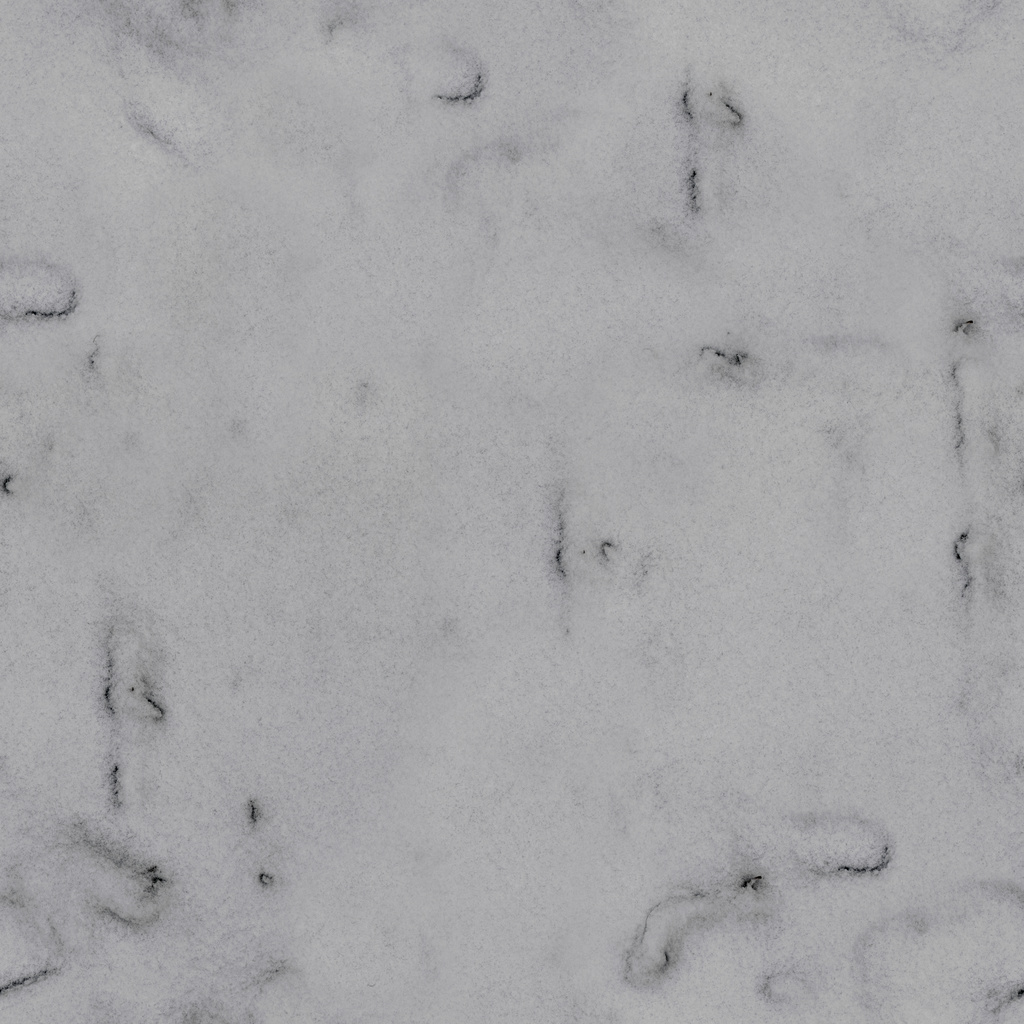
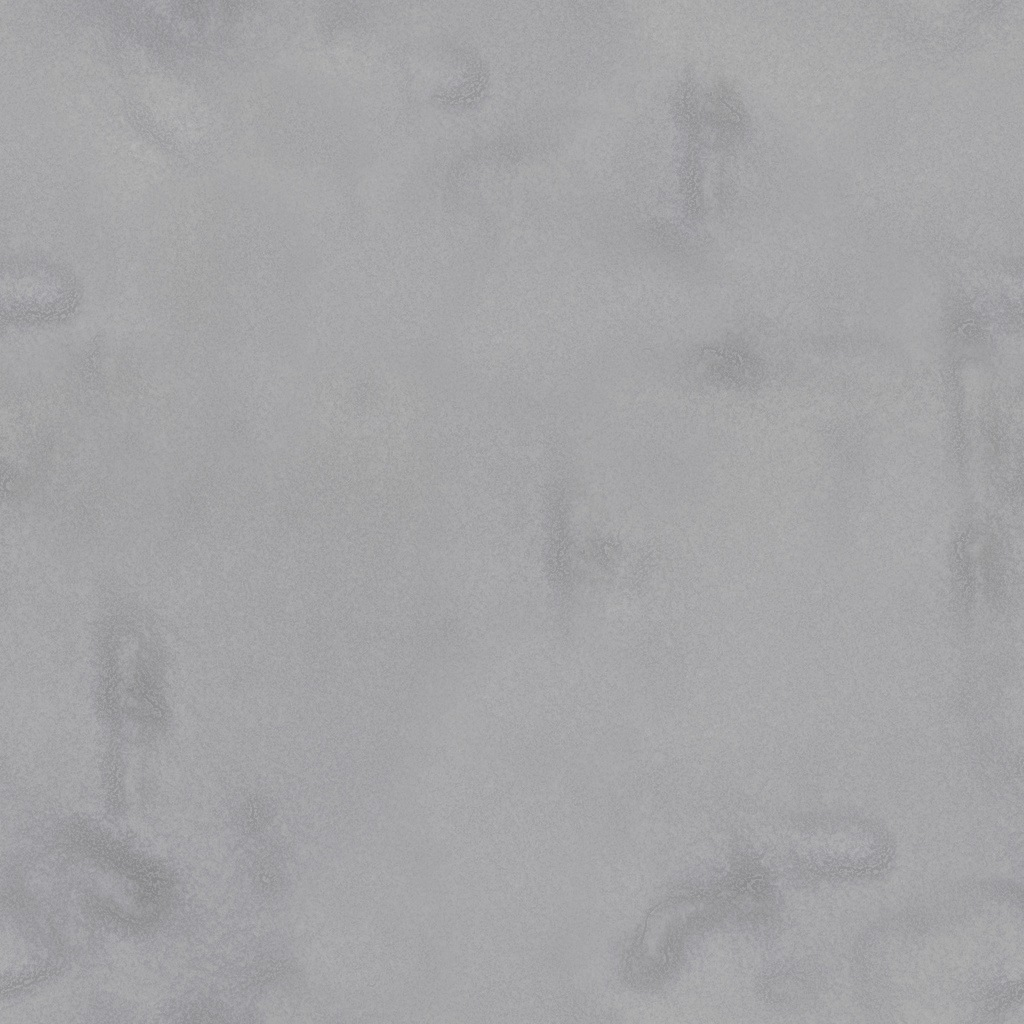
Snow Rush Phase 4 (1): spruce forest, lit alpine mountains, clean snow, real lodges
- Trees: drooping branch whorls with star-shaped rims, snow on their upper sides, dark
  needles beneath, trunk and leader; two kinds, full near the camera (~330 tris) and
  light far away (~80), swapped per chunk by distance; green tinted per tree, snow kept.
- Mountains: three rings of real relief (ridged polar height fields) shaded per pixel:
  rock and strata on cliffs, snow wherever it can hold, wrapped sun, haze with distance.
- Snow texture: the dark crust cracks that read as dirt are gone (frequency split keeps
  the grain and sparkle); the normal map's grooves softened to match.
- Off-piste snow: wind ripples and a touch brighter than the packed run.
- Lodges and cafés along the run use the village's house generator; terraces stay on
  their cut terraces. Village spruces use the new trees.
- Render cost about the same as before (run start 1.12M tris incl. shadows).

Claude-Session: https://claude.ai/code/session_01MeTHNeZ7NE1P16vEWgScPr

diff --git a/snowtrader/js/world.js b/snowtrader/js/world.js
@@ -19,7 +19,7 @@
   ST.LAB={id:'lab',name:'מעבדת בדיקות',en:'TEST LAB',diff:'green',diffName:'בדיקות',blurb:'מדרון רחב וריק לבדיקת הרוכב והפיזיקה.',len:900,vref:11,slope:.2,halfW:32,bend:[10,4],rampStart:170,rampEvery:150,rampH:[.8,1.2],jump:{Hm:3,face:26,b:.1,Tb:6},redRate:0,goals:[1000,3000],par:120,net:false,snowfall:.1,noItems:true,
     sky:{zen:0x2f6fcf,mid:0x86bdf0,hor:0xe3f0fb,sun:0xfff7ea,sunDir:[-.30,.50,-.80],fog:0xc3d9ee,fogNear:90,fogFar:460,snow:0xf4f8ff,hemiS:0x9cc4ff,hemiG:0xcfdcf2,hemiI:1.0,sunI:1.6,exp:.9,stars:0,mount:[0xffffff,0x6f86a8],neon:0}};
 
-  const L=48, U=64, NU=65, NS=49;           // chunk length (m), half width, columns, rows
+  const L=48, U=64, NU=65, NS=49, L_CH=L;    // chunk length (m), half width, columns, rows
   let T=ST.TRACKS[0], cx0=0;
   const S=z=>-z;                              // forward distance from a world z
 
@@ -103,7 +103,10 @@
       varying vec3 vWP; varying float vGroom; uniform float uSparkle; varying float vGlow; uniform float uGlowK;
       float sh1(vec2 p){ return fract(sin(dot(p,vec2(127.1,311.7)))*43758.5453); }`)
       .replace('#include <normal_fragment_maps>',`#include <normal_fragment_maps>
-      { float dd=length(vViewPosition); float fade=vGroom*smoothstep(70.,6.,dd); float st=sin(vWP.x*30.0+sin(vWP.z*.07)*5.0)*.6+sin(vWP.x*61.0+1.3)*.4; normal=normalize(normal+vec3(st*.11*fade,0.,0.)); diffuseColor.rgb*=1.-.045*st*fade; }`)
+      { float dd=length(vViewPosition); float fade=max(vGroom,0.)*smoothstep(70.,6.,dd); float st=sin(vWP.x*30.0+sin(vWP.z*.07)*5.0)*.6+sin(vWP.x*61.0+1.3)*.4; normal=normalize(normal+vec3(st*.11*fade,0.,0.)); diffuseColor.rgb*=1.-.045*st*fade;
+        // deep snow off the run: wind ripples (sastrugi) that wander, and a touch brighter than the packed run
+        float off=1.-abs(vGroom), rf=off*smoothstep(55.,5.,dd); vec2 wd=vec2(.82,.57); float ph=dot(vWP.xz,wd)*4.6+sin(vWP.x*.29+vWP.z*.21)*2.2+sin(vWP.x*1.3-vWP.z*.9)*.6;
+        vec3 tilt=vec3(wd.x,0.,wd.y)*cos(ph)*.16*rf; normal=normalize(normal+(viewMatrix*vec4(tilt,0.)).xyz); diffuseColor.rgb*=1.+.035*off; }`)
       .replace('vec3 outgoingLight =',`{
         vec2 cell=floor(vWP.xz*34.0); float k=sh1(cell);
         vec3 vd=normalize(cameraPosition-vWP);
@@ -129,15 +132,31 @@
   }
   function paint(g,fn){ const p=g.attributes.position, c=new Float32Array(p.count*3), col=new THREE.Color(); for(let i=0;i<p.count;i++){ fn(p.getX(i),p.getY(i),p.getZ(i),col,i); c[i*3]=col.r; c[i*3+1]=col.g; c[i*3+2]=col.b; } g.setAttribute('color',new THREE.BufferAttribute(c,3)); return g; }
 
-  /* pine: trunk + three snow-dusted tiers, one merged geometry, instanced per chunk */
-  function pineGeo(){
-    const parts=[], trunk=new THREE.CylinderGeometry(.22,.34,2.2,7); trunk.translate(0,1.1,0); paint(trunk,(x,y,z,c)=>c.setRGB(.2,.12,.08)); parts.push(trunk);
-    [[3.3,5.4,1.8],[2.7,4.8,4.0],[1.9,4.0,6.0]].forEach(([r,h,y0],i)=>{
-      const g=new THREE.ConeGeometry(r,h,9,3); g.translate(0,y0+h/2,0);
-      paint(g,(x,y,z,c)=>{ const t=(y-y0)/h, n=hash2(Math.round(x*9),Math.round(z*9))*.12; const snow=smooth(.38,.78,t+Math.hypot(x,z)/r*-.25+n);
-        c.setRGB(.05+n*.5,.2+n,.14+n*.6).lerp(new THREE.Color(.92,.95,1),snow*.85); }); parts.push(g); });
-    return mergeGeos(parts);
-  }
+  /* Conifers like the Alps' own (Norway spruce, silver fir): whorls of drooping branches whose rims are star-shaped, so
+     the crown has a ragged edge of branch tips; snow lies on the upper side of each whorl (where it faces the sky) and the
+     needles stay dark beneath; a trunk below the lowest whorl and a thin leader on top. Each kind comes as a full version
+     for the near chunks (~330 triangles) and a light one for the far chunks (~80), swapped by distance (World.follow).
+     aSnow marks the snowy vertices, which keep their white when a tree's green is tinted per instance. */
+  const PI=Math.PI, NEEDLE=[.042,.1,.058], NEEDLE_D=[.016,.036,.025], SNOWC=[.86,.9,.97], BARK=[.13,.08,.055];
+  function conifer(o,lod){ const far=lod==='far', K=far?5:o.K, nL=far?Math.ceil(o.layers*.55):o.layers, P=[], C=[], A=[], I=[]; let v=0;
+    const vtx=(x,y,z,c,a)=>{ P.push(x,y,z); C.push(c[0],c[1],c[2]); A.push(a); return v++; };
+    { const n=far?4:6, r0=o.trunk, r1=o.trunk*.55, top=o.H*.55; for(let i=0;i<n;i++){ const a0=i/n*PI*2, a1=(i+1)/n*PI*2, b=v;   // trunk
+        vtx(Math.cos(a0)*r0,0,Math.sin(a0)*r0,BARK,0); vtx(Math.cos(a1)*r0,0,Math.sin(a1)*r0,BARK,0); vtx(Math.cos(a1)*r1,top,Math.sin(a1)*r1,BARK,0); vtx(Math.cos(a0)*r1,top,Math.sin(a0)*r1,BARK,0);
+        I.push(b,b+2,b+1,b,b+3,b+2); } }
+    const tops=[];
+    for(let i=0;i<nL;i++){ const t=i/nL, y=o.y0+(o.H-o.y0-.6)*Math.pow(t,.92), R=o.R*Math.pow(1-t,1.08)+.32, droop=o.droop*(1-t*.6)*(.8+R/o.R*.4), up=R*.42, rot=hash2(o.seed+i,7)*PI*2;
+      const g=.85+hash2(o.seed+i,11)*.3, ndl=[NEEDLE[0]*g,NEEDLE[1]*g,NEEDLE[2]*g];
+      const ap=o.snow*(.55+hash2(o.seed,i)*.3), apex=vtx(0,y+up,0,[ndl[0]+(SNOWC[0]-ndl[0])*ap,ndl[1]+(SNOWC[1]-ndl[1])*ap,ndl[2]+(SNOWC[2]-ndl[2])*ap],ap), under=vtx(0,y-droop*.35,0,NEEDLE_D,0), ring=[], rb=[];
+      for(let j=0;j<2*K;j++){ const tip=j%2===0, a=rot+j/(2*K)*PI*2+(hash2(o.seed*13+i,j)-.5)*.25, r=R*(tip?1:.6)*(.88+hash2(o.seed+i*7,j)*.24), yy=y-droop*(tip?1:.55)+(hash2(i,j+o.seed)-.5)*.12;
+        const x=Math.cos(a)*r, z=Math.sin(a)*r; ring.push(vtx(x,yy,z,ndl,0)); tops.push(ring[ring.length-1]); if(!far) rb.push(vtx(x,yy-.04,z,NEEDLE_D,0)); }
+      for(let j=0;j<2*K;j++){ const a=ring[j], b=ring[(j+1)%(2*K)]; I.push(apex,b,a); if(!far){ const c=rb[j], d=rb[(j+1)%(2*K)]; I.push(under,c,d); } } }
+    { const y=o.H-.9, b=v; vtx(0,o.H,0,NEEDLE,0); for(let j=0;j<4;j++){ const a=j/4*PI*2; vtx(Math.cos(a)*.22,y,Math.sin(a)*.22,NEEDLE_D,0); } for(let j=0;j<4;j++) I.push(b,b+1+((j+1)%4),b+1+j); }   // the leader
+    const g=new THREE.BufferGeometry(); g.setAttribute('position',new THREE.Float32BufferAttribute(P,3)); g.setIndex(I); g.computeVertexNormals();
+    // snow on the parts of each whorl that face the sky: more near the trunk, thinning out to the drooping tips
+    const nr=g.attributes.normal; for(const k of tops){ const ny=nr.getY(k), s=clamp((ny-.6)*1.7+(hash2(k,o.seed)-.5)*.9,0,1)*o.snow; A[k]=s; C[k*3]+= (SNOWC[0]-C[k*3])*s; C[k*3+1]+=(SNOWC[1]-C[k*3+1])*s; C[k*3+2]+=(SNOWC[2]-C[k*3+2])*s; }
+    g.setAttribute('color',new THREE.Float32BufferAttribute(C,3)); g.setAttribute('aSnow',new THREE.Float32BufferAttribute(A,1)); g.computeBoundingSphere(); return g; }
+  const CONIFERS={spruce:{H:9.5,R:2.5,y0:1.4,layers:12,K:8,droop:.55,snow:.62,trunk:.24,seed:3},fir:{H:8.6,R:3.0,y0:1.1,layers:10,K:7,droop:.75,snow:.8,trunk:.27,seed:9}};
+  const TREE={}; for(const k in CONIFERS) TREE[k]={near:conifer(CONIFERS[k],'near'),far:conifer(CONIFERS[k],'far')};
   function rockGeo(){ const g=new THREE.IcosahedronGeometry(1,1); const p=g.attributes.position; for(let i=0;i<p.count;i++){ const x=p.getX(i),y=p.getY(i),z=p.getZ(i), k=1+hash2(Math.round(x*7),Math.round(z*7+y*3))*.45; p.setXYZ(i,x*k*1.25,y*k*.8,z*k); }
     g.computeVertexNormals(); return paint(g,(x,y,z,c)=>{ const s=smooth(.15,.65,y); c.setRGB(.26,.25,.3).lerp(new THREE.Color(.93,.95,1),s*.9); }); }
   function firGeo(){
@@ -147,7 +166,11 @@
         c.setRGB(.04+n*.4,.14+n,.12+n*.5).lerp(new THREE.Color(.93,.96,1),snow*.9); }); parts.push(g); }
     return mergeGeos(parts);
   }
-  const GEO={pine:pineGeo(),fir:firGeo(),rock:rockGeo()};
+  const GEO={rock:rockGeo()};
+  // trees: tinted per instance (instanceColor), but the snowy vertices keep their white
+  const treeMat=new THREE.MeshStandardMaterial({vertexColors:true,roughness:.9,metalness:0});
+  treeMat.onBeforeCompile=sh=>{ sh.vertexShader=sh.vertexShader.replace('#include <common>','#include <common>\nattribute float aSnow;').replace('#include <color_vertex>','#include <color_vertex>\n vColor.rgb=mix(vColor.rgb,color.rgb,aSnow);'); };
+  treeMat.customProgramCacheKey=()=>'st-tree';
   const MATS={tree:new THREE.MeshStandardMaterial({vertexColors:true,roughness:.92,metalness:0}),
     coin:new THREE.MeshStandardMaterial({color:0xffc83a,metalness:.9,roughness:.25,emissive:0xff9d00,emissiveIntensity:.9}),
     green:new THREE.MeshStandardMaterial({color:0x2fd6ff,roughness:.2,metalness:.1,emissive:0x1ab8ff,emissiveIntensity:1.4}),
@@ -197,7 +220,7 @@
         cA.copy(snow).multiplyScalar(.93+nz+n.y*.07); cA.lerp(cR,steep*.75);
         if(a>0) cA.multiplyScalar(1-smooth(0,26,a)*.16);
         let gm=1-smooth(-4,1.5,a);
-        if(VG){ const vk=VG.k(s); if(vk>0){ gm*=1-smooth(.3,.9,vk); const sh=VG.shade(s,u);   // village: no corduroy, packed streets, wall shadows, lamp light
+        if(VG){ const vk=VG.k(s); if(vk>0){ gm=lerp(gm,-1,smooth(.3,.9,vk)); const sh=VG.shade(s,u);   // -1: the village floor (neither groomed nor wind-blown)   // village: no corduroy, packed streets, wall shadows, lamp light
             if(sh.k>0){ const pn=vnoise(x*.35,z*.35)*.5+.5; cA.multiply(_st.setRGB(1-.15*sh.k-.1*sh.k*pn,1-.15*sh.k-.09*sh.k*pn,1-.12*sh.k-.06*sh.k*pn)); }
             if(sh.ao>0) cA.multiplyScalar(1-sh.ao);
             glow[o]=Math.min(1.4,sh.glow); } }
@@ -224,8 +247,12 @@
     { const nG=T.id==='ridge'?4:T.id==='bear'?3:T.id==='ipo'?3:T.id==='bull'?2:1; for(let n2=0;n2<nG;n2++){ const s=s0+hash2(ci,n2*11+900)*L, w=halfW(s), side=hash2(ci,n2*11+901)<.5?-1:1, u=side*(w+14+hash2(ci,n2*11+902)*34), x=cx(s)+u, z=-s, sc=6+hash2(ci,n2*11+903)*12;
         if(ST.Resort&&ST.Resort.blocked(s,u)||VG&&VG.blocked(s,u)) continue; rocks.push({x,y:groundY(x,z)-sc*.25,z,sc,sy:1.5+hash2(ci,n2*11+904)*1.3,r:hash2(ci,n2*11+905)*6.28,giant:1}); } }
     const dummy=new THREE.Object3D();
-    if(trees.length){ const firs=trees.filter((t,i)=>hash2(i,ci+77)<.45), pines=trees.filter((t,i)=>!(hash2(i,ci+77)<.45));
-      [[GEO.pine,pines],[GEO.fir,firs]].forEach(([geo,arr])=>{ if(!arr.length) return; const im=new THREE.InstancedMesh(geo,MATS.tree,arr.length); arr.forEach((t,i)=>{ dummy.position.set(t.x,t.y,t.z); dummy.rotation.set(0,t.r,0); const k=geo===GEO.fir?t.sc*1.05:t.sc; dummy.scale.set(k*(geo===GEO.fir?.9:1),k*(.9+hash2(i,ci)*.45)*(geo===GEO.fir?1.25:1),k*(geo===GEO.fir?.9:1)); dummy.updateMatrix(); im.setMatrixAt(i,dummy.matrix); }); im.castShadow=true; im.receiveShadow=true; im.frustumCulled=false; grp.add(im); }); trees.forEach(t=>{ if(Math.abs(t.x-cx(-t.z))<halfW(-t.z)+7) items.push({type:'tree',x:t.x,z:t.z,y:t.y,r:.8*t.sc}); }); }
+    if(trees.length){ const firs=trees.filter((t,i)=>hash2(i,ci+77)<.4), spruces=trees.filter((t,i)=>!(hash2(i,ci+77)<.4)), lod={near:[],far:[]}, tint=new THREE.Color();
+      [[TREE.spruce,spruces],[TREE.fir,firs]].forEach(([T2,arr])=>{ if(!arr.length) return; ['near','far'].forEach(L=>{ const im=new THREE.InstancedMesh(T2[L],treeMat,arr.length);
+          arr.forEach((t,i)=>{ dummy.position.set(t.x,t.y,t.z); dummy.rotation.set(0,t.r,0); const k=t.sc*1.12, w=.9+hash2(i,ci+5)*.25; dummy.scale.set(k*w,k*(.88+hash2(i,ci)*.4),k*w); dummy.updateMatrix(); im.setMatrixAt(i,dummy.matrix);
+            const h=hash2(i,ci+31); im.setColorAt(i,tint.setRGB(.8+h*.45,.85+hash2(i,ci+32)*.35,.8+hash2(i,ci+33)*.3)); });
+          im.castShadow=L==='near'; im.receiveShadow=true; im.frustumCulled=false; im.visible=L==='near'; grp.add(im); lod[L].push(im); }); });
+      grp.userData.treeLod=lod; trees.forEach(t=>{ if(Math.abs(t.x-cx(-t.z))<halfW(-t.z)+7) items.push({type:'tree',x:t.x,z:t.z,y:t.y,r:.8*t.sc}); }); }
     if(rocks.length&&ASSET.rocks.length){ const groups=ASSET.rocks.map(()=>[]); rocks.forEach(t=>{ const pick=t.giant?(hash2(t.x|0,t.z|0)<.5?3:2):(hash2(t.x|0,(t.z|0)+5)<.5?0:1); groups[pick%ASSET.rocks.length].push(t); });
       groups.forEach((arr,gi)=>{ if(!arr.length) return; const A=ASSET.rocks[gi], im=new THREE.InstancedMesh(A.geo,A.mat,arr.length); arr.forEach((t,i)=>{ dummy.position.set(t.x,t.y,t.z); dummy.rotation.set(0,t.r,0); const k=t.giant?(A.name==='rock_face_01'?3.2:2.4):2.3, sy=t.giant?(t.sy||1)*.9:1; dummy.scale.set(t.sc*k,t.sc*k*sy,t.sc*k); dummy.updateMatrix(); im.setMatrixAt(i,dummy.matrix); }); im.castShadow=true; im.receiveShadow=true; im.frustumCulled=false; grp.add(im); });
       rocks.forEach(t=>{ if(!t.giant&&Math.abs(t.x-cx(-t.z))<halfW(-t.z)+2) items.push({type:'rock',x:t.x,z:t.z,y:t.y,r:1.1*t.sc}); }); }
@@ -316,29 +343,48 @@
   const clouds=[0,1].map(i=>{ const m=new THREE.Mesh(new THREE.PlaneGeometry(2600,2600),new THREE.MeshBasicMaterial({map:cloudTex.clone(),transparent:true,depthWrite:false,fog:false,opacity:i?.8:.95})); m.material.map.needsUpdate=true; m.material.map.repeat.set(3.5+i,3.5+i); m.rotation.x=-Math.PI/2; m.renderOrder=-6+i; m.frustumCulled=false; scene.add(m); return m; });
   const mount=new THREE.Group(); scene.add(mount);
   const plumeSprites=[]; const plumeTex2=(()=>{ const c=document.createElement('canvas'); c.width=256; c.height=64; const g=c.getContext('2d'); const gr=g.createRadialGradient(128,32,0,128,32,128); gr.addColorStop(0,'rgba(255,255,255,.9)'); gr.addColorStop(.5,'rgba(255,255,255,.35)'); gr.addColorStop(1,'rgba(255,255,255,0)'); g.save(); g.scale(1,.25); g.translate(0,96); g.fillStyle=gr; g.fillRect(0,-96,256,256); g.restore(); const t=new THREE.CanvasTexture(c); return t; })();
+  /* The mountains around: three rings of real relief (polar height fields of ridged noise: peaks, crests, gullies), so the
+     sun can light them. Shaded per pixel: rock with strata where it is steep, snow where it is gentle enough to hold it,
+     broken up by noise; sun and sky light; haze growing with distance and toward the cloud sea they rise out of. */
+  const MOUNT_FRAG=`uniform vec3 sunD,sunC,skyC,grdC,fogC,snowC,rockA,rockB; uniform float haze,Hmax,snowK; varying vec3 vP; varying vec3 vN;
+    float h2(vec2 p){ return fract(sin(dot(p,vec2(127.1,311.7)))*43758.5453); }
+    float vn(vec2 p){ vec2 i=floor(p),f=fract(p); f=f*f*(3.-2.*f); return mix(mix(h2(i),h2(i+vec2(1.,0.)),f.x),mix(h2(i+vec2(0.,1.)),h2(i+vec2(1.,1.)),f.x),f.y); }
+    void main(){
+      vec3 n=normalize(vN); vec2 q=vec2(vP.x*.035+vP.y*.029,vP.z*.035-vP.y*.023);         // varies down a cliff as well as across it
+      float d1=vn(q)*.55+vn(q*2.3)*.3+vn(q*5.1)*.15, d2=vn(q*9.+3.7)*.6+vn(q*21.)*.4;
+      vec3 b=vec3(d2-.5,0.,d1-.5); n=normalize(n+b*.55);                                   // rocky relief finer than the mesh
+      float hf=clamp((vP.y+60.)/(Hmax+60.),0.,1.);
+      float snow=smoothstep(.2,.4,n.y*.9+hf*.24+(d1-.5)*.5+snowK);                       // winter: snow wherever it can hold, rock on the cliffs
+      float strata=sin(vP.y*.42+d1*7.)*.5+.5;
+      vec3 rock=mix(rockA,rockB,clamp(d2*.75+strata*.35-.1,0.,1.));
+      vec3 alb=mix(rock,snowC,snow);
+      float dif=max(dot(n,sunD)*.8+.2,0.);                                                  // wrapped: faces turned from the sun still read
+      vec3 col=alb*(sunC*dif+mix(grdC,skyC,n.y*.5+.5)*.85);
+      col=mix(col,fogC,clamp(haze+smoothstep(30.,-90.,vP.y)*.8,0.,1.));
+      gl_FragColor=vec4(col,1.);
+      #include <tonemapping_fragment>
+      #include <encodings_fragment>
+    }`;
+  const MOUNT_VERT='varying vec3 vP; varying vec3 vN; void main(){ vP=position; vN=normal; gl_Position=projectionMatrix*modelViewMatrix*vec4(position,1.0); }';
   function buildMountains(palette,sunDir,fogC){
     plumeSprites.length=0; while(mount.children.length){ const o=mount.children.pop(); if(o.geometry) o.geometry.dispose(); if(o.material) o.material.dispose(); }
-    const sunV=new THREE.Vector3(...sunDir).normalize(), lo=new THREE.Color(palette[1]).convertSRGBToLinear(), hi=new THREE.Color(palette[0]).convertSRGBToLinear(), fc=new THREE.Color(fogC).convertSRGBToLinear();
-    const rockC=new THREE.Color(0x7a6d66).convertSRGBToLinear(), rockD=new THREE.Color(0x3d3a45).convertSRGBToLinear();
-    [[860,520,0.5,11],[620,300,0.4,23],[470,150,0.3,41]].forEach(([R,H,sn,seed],layer)=>{
-      const N=300, M=18, pos=[], idx=[];
-      for(let i=0;i<=N;i++){ const a=i/N*Math.PI*2; const rid=(f,s)=>1-Math.abs(vnoise(Math.cos(a)*f+s,Math.sin(a)*f));   // ridged noise: sharp crests
-        const ridge=Math.pow(rid(1.8,seed),2.4)*.6+Math.pow(rid(5,seed+3),2.8)*.3+Math.pow(rid(13,seed+7),3)*.1;
-        const hh=H*(.12+ridge*1.2);
-        for(let j=0;j<=M;j++){ const t=j/M, r=R-t*40-Math.pow(t,3)*60, y=-90+t*(hh+90); pos.push(Math.cos(a)*r,y,Math.sin(a)*r); } }
-      for(let i=0;i<N;i++) for(let j=0;j<M;j++){ const a=i*(M+1)+j,b=a+1,c=a+(M+1),d=c+1; idx.push(a,c,b,b,c,d); }
+    const k=T.sky, lin=c=>new THREE.Color(c).convertSRGBToLinear(), sunV=new THREE.Vector3(...sunDir).normalize();
+    const U={sunD:{value:sunV},sunC:{value:lin(k.sun).multiplyScalar(k.sunI*.62)},skyC:{value:lin(k.hemiS).multiplyScalar(k.hemiI*.85)},grdC:{value:lin(k.hemiG).multiplyScalar(k.hemiI*.55)},fogC:{value:lin(fogC)},
+      snowC:{value:lin(palette[0]).multiplyScalar(.9)},rockA:{value:lin(0x8a7f78)},rockB:{value:lin(0x4b4752)}};
+    // radii stay inside the camera's far plane (900 m)
+    [[760,880,560,.5,11],[580,720,330,.32,23],[450,560,170,.16,41]].forEach(([R0,R1,H,haze,seed],layer)=>{
+      const N=420, M=26, pos=[], idx=[], tops=new Float32Array(N+1), rid=(x,z,f,sd)=>1-Math.abs(vnoise(x*f+sd,z*f-sd*1.7));
+      for(let i=0;i<=N;i++){ const a=i/N*Math.PI*2, ca=Math.cos(a), sa=Math.sin(a);
+        for(let j=0;j<=M;j++){ const t=j/M, r=R0+(R1-R0)*t, x=ca*r, z=sa*r;
+          const big=Math.pow(rid(x,z,.0021,seed),2.2), mid=Math.pow(rid(x,z,.0063,seed+3),2.6), fine=Math.pow(rid(x,z,.019,seed+7),3);
+          const h=H*(.1+big*.95+mid*.38+fine*.09)*smooth(0,.38,t)*(1-smooth(.82,1,t)*.25), y=-90+h; pos.push(x,y,z); if(y>tops[i]) tops[i]=y; } }
+      for(let i=0;i<N;i++) for(let j=0;j<M;j++){ const a=i*(M+1)+j,b=a+1,c=a+(M+1),d=c+1; idx.push(a,c,b,b,c,d); }   // faces up
       const g=new THREE.BufferGeometry(); g.setAttribute('position',new THREE.Float32BufferAttribute(pos,3)); g.setIndex(idx); g.computeVertexNormals();
-      const p=g.attributes.position, nr=g.attributes.normal, col=new Float32Array(p.count*3), cc=new THREE.Color();
-      for(let i=0;i<p.count;i++){ const x=p.getX(i), y=p.getY(i), z=p.getZ(i), ang=Math.atan2(z,x);
-        // snow settles on the high, gentle parts; cliffs and gullies stay bare rock
-        const patch=vnoise(ang*38+layer*5,y*.03)*.5+vnoise(ang*110,y*.09)*.25+.5, hf=smooth(H*.18,H*.55,y), snow=smooth(.46,.76,patch*.62+hf*.42);
-        cc.copy(rockC).lerp(rockD,smooth(.4,.9,vnoise(ang*70,y*.05)*.5+.5)); cc.lerp(hi,snow);
-        const sh=clamp(.5+.6*(nr.getX(i)*sunV.x+nr.getY(i)*sunV.y+nr.getZ(i)*sunV.z),.28,1.1), sc=clamp((sh-.28)/.82,0,1);
-        cc.r*=lerp(.58,1.05,sc); cc.g*=lerp(.7,1.0,sc); cc.b*=lerp(.95,.97,sc);
-        const haze=(layer===0?.36:layer===1?.2:.08)+smooth(60,-80,y)*.7; cc.lerp(fc,clamp(haze,0,1)); col[i*3]=cc.r; col[i*3+1]=cc.g; col[i*3+2]=cc.b; }
-      g.setAttribute('color',new THREE.BufferAttribute(col,3));
-      if(layer<2){ const hs=[]; for(let i=0;i<=N;i++) hs.push(pos[(i*(M+1)+M)*3+1]); let cnt=0; for(let i=4;i<N-4&&cnt<(layer?5:7);i++){ if(hs[i]>H*.62&&hs[i]>=hs[i-3]&&hs[i]>=hs[i+3]&&hs[i]>=hs[i-1]&&hs[i]>=hs[i+1]){ const a=i/N*Math.PI*2, r=R-40-60; const sp=new THREE.Sprite(new THREE.SpriteMaterial({map:plumeTex2,transparent:true,depthWrite:false,fog:false,opacity:.5,color:0xffffff})); sp.position.set(Math.cos(a)*r*.99,hs[i]+8,Math.sin(a)*r*.99); sp.scale.set(layer?150:260,layer?50:90,1); sp.userData.ph=i; plumeSprites.push(sp); mount.add(sp); cnt++; i+=14; } } }
-      const m=new THREE.Mesh(g,new THREE.MeshBasicMaterial({vertexColors:true,fog:false,side:THREE.DoubleSide,toneMapped:true})); m.frustumCulled=false; mount.add(m); });
+      const mat=new THREE.ShaderMaterial({uniforms:Object.assign({},U,{haze:{value:haze},Hmax:{value:H*1.1},snowK:{value:(T.id==='ridge'?.08:T.id==='bunny'?.03:0)}}),vertexShader:MOUNT_VERT,fragmentShader:MOUNT_FRAG,side:THREE.DoubleSide,fog:false});
+      const m=new THREE.Mesh(g,mat); m.frustumCulled=false; m.renderOrder=-5+layer; mount.add(m);
+      // snow plumes blown off the highest summits of the two far rings
+      if(layer<2){ let cnt=0; for(let i=4;i<N-4&&cnt<(layer?5:7);i++){ const h=tops[i]; if(h>H*.72-90&&h>=tops[i-3]&&h>=tops[i+3]&&h>=tops[i-1]&&h>=tops[i+1]){ const a=i/N*Math.PI*2, r=(R0+R1)/2;
+          const sp=new THREE.Sprite(new THREE.SpriteMaterial({map:plumeTex2,transparent:true,depthWrite:false,fog:false,opacity:.5,color:0xffffff})); sp.position.set(Math.cos(a)*r,h+8,Math.sin(a)*r); sp.scale.set(layer?150:260,layer?50:90,1); sp.userData.ph=i; plumeSprites.push(sp); mount.add(sp); cnt++; i+=14; } } } });
   }
 
   /* falling snow: a box of flakes that wraps around the camera */
@@ -406,10 +452,14 @@
     if(ST.Park) ST.Park.build(T);
     if(ST.Village) ST.Village.build(T);
   }
-  function follow(p,t){ plumeSprites.forEach(sp=>{ const ph=sp.userData.ph; sp.material.opacity=.42+.18*Math.sin(t*.35+ph); sp.scale.x=(sp.scale.y>60?260:150)*(1+.08*Math.sin(t*.2+ph*1.3)); });
+  /* the forest's level of detail: chunks near the camera get the full trees (and their shadows), far ones the light trees */
+  const TREE_NEAR=120;
+  function treeLod(cam){ chunks.forEach(c=>{ const L=c.group.userData.treeLod; if(!L) return; const s=c.idx*L_CH+L_CH/2, dx=cam.x-cx(s), dz=cam.z+s, near=dx*dx+dz*dz<TREE_NEAR*TREE_NEAR;
+      if(c.treeNear===near) return; c.treeNear=near; L.near.forEach(m=>m.visible=near); L.far.forEach(m=>m.visible=!near); }); }
+  function follow(p,t){ treeLod(camera.position); plumeSprites.forEach(sp=>{ const ph=sp.userData.ph; sp.material.opacity=.42+.18*Math.sin(t*.35+ph); sp.scale.x=(sp.scale.y>60?260:150)*(1+.08*Math.sin(t*.2+ph*1.3)); });
     clouds.forEach((m,i)=>{ m.position.set(camera.position.x,p.y-175+i*52,camera.position.z); m.material.map.offset.set(t*.004*(i?1.6:1),t*.002); });
     sky.position.copy(camera.position); sky.material.uniforms.time.value=t; mount.position.set(camera.position.x,p.y-30,camera.position.z);
     const sd=T.sky.sunDir; sun.position.set(p.x-sd[0]*0+sd[0]*120,p.y+sd[1]*120+30,p.z+sd[2]*120); sun.target.position.set(p.x,p.y,p.z); sun.target.updateMatrixWorld(); }
 
-  ST.World={loadAssets,ensureSky,get T(){return T;},baseGround,groundY,groundN,cx,dcx,halfW,fall,update,nearItems,setTrack,follow,updateFlakes,rampAt,forRamps,lipNear,flightLine,jumpWindow,updateCoins,L,BUILD,flakes,reset,rampProfile};
+  ST.World={TREE,treeMat,loadAssets,ensureSky,get T(){return T;},baseGround,groundY,groundN,cx,dcx,halfW,fall,update,nearItems,setTrack,follow,updateFlakes,rampAt,forRamps,lipNear,flightLine,jumpWindow,updateCoins,L,BUILD,flakes,reset,rampProfile};
 })(window.ST);

diff --git a/snowtrader/js/village.js b/snowtrader/js/village.js
@@ -91,6 +91,10 @@
   Batch.prototype.geo=function(g,m,col,k){ const P=g.attributes.position, N=g.attributes.normal, v=this.v; _nm.getNormalMatrix(m);
     for(let i=0;i<P.count;i++){ _gv.fromBufferAttribute(P,i).applyMatrix4(m); _gn.fromBufferAttribute(N,i).applyMatrix3(_nm).normalize(); pushV(this,_gv.x,_gv.y,_gv.z,_gn.x,_gn.y,_gn.z,col,k); if(this.uv) this.uv.push(0,0); }
     if(g.index) for(let i=0;i<g.index.count;i++) this.i.push(v+g.index.getX(i)); else for(let i=0;i<P.count;i++) this.i.push(v+i); this.v+=P.count; return this; };
+  /* a geometry that brings its own vertex colours (the World's conifers) */
+  Batch.prototype.geoC=function(g,m,k){ const P=g.attributes.position, N=g.attributes.normal, Cc=g.attributes.color, v=this.v; _nm.getNormalMatrix(m); const col=[0,0,0];
+    for(let i=0;i<P.count;i++){ _gv.fromBufferAttribute(P,i).applyMatrix4(m); _gn.fromBufferAttribute(N,i).applyMatrix3(_nm).normalize(); col[0]=Cc.getX(i); col[1]=Cc.getY(i); col[2]=Cc.getZ(i); pushV(this,_gv.x,_gv.y,_gv.z,_gn.x,_gn.y,_gn.z,col,k); if(this.uv) this.uv.push(0,0); }
+    for(let i=0;i<g.index.count;i++) this.i.push(v+g.index.getX(i)); this.v+=P.count; return this; };
   Batch.prototype.mesh=function(mat){ if(!this.v) return null; const g=new THREE.BufferGeometry();
     g.setAttribute('position',new THREE.Float32BufferAttribute(this.p,3)); g.setAttribute('normal',new THREE.Float32BufferAttribute(this.n,3)); g.setAttribute('color',new THREE.Float32BufferAttribute(this.c,3)); g.setAttribute('aK',new THREE.Float32BufferAttribute(this.k,1));
     if(this.uv) g.setAttribute('uv',new THREE.Float32BufferAttribute(this.uv,2)); g.setIndex(this.v>65535?new THREE.Uint32BufferAttribute(this.i,1):new THREE.Uint16BufferAttribute(this.i,1)); g.computeBoundingSphere(); return new THREE.Mesh(g,mat); };
@@ -151,6 +155,8 @@
     board('apres','Après Bar La Piste','LIVE MUSIC · 16:00',860,190,'#2a1638','#ff9ad8');
     board('school','Ski & Snowboard School','LESSONS · KIDS CLUB',1000,190,'#1d3e6e','#ffffff');
     board('rent','Sport & Rent','SKI · SNOWBOARD · SERVICE',900,190,'#7a1a1a','#ffffff');
+    board('summit','Summit Lodge','SNOW RUSH RESORT · RESTAURANT',1000,200,'#2b1a10','#f2c45a'); board('rcafe','Café','ESPRESSO · COCOA',700,190,'#5a1f1f','#f2d28a');
+    board('rapres','Après Ski','BAR & GRILL',760,190,'#2a1638','#ff9ad8'); board('rmcafe','Mountain Café','WAFFLES · SOUP',820,190,'#1f3a26','#f6e2a0');
     board('chalet1','Chalet Bergblick','',520,130); board('chalet2','Haus Tannenhof','',520,130); board('chalet3','Chalet Sonnhalde','',520,130); board('chalet4','Haus Gletscherblick','',560,130);
     // the lift's own sign: enamel blue
     add('lift',900,220,(g,W,H)=>{ g.fillStyle='#103d8c'; g.fillRect(0,0,W,H); g.strokeStyle='#fff'; g.lineWidth=10; g.strokeRect(14,14,W-28,H-28); g.fillStyle='#fff'; g.textAlign='center'; g.textBaseline='middle';
@@ -305,8 +311,7 @@
       sign(B,id,x-Math.cos(ry)*.012,y,z+Math.sin(ry)*.012,2.5,ry-PI/2); sign(B,id+'b',x+Math.cos(ry)*.012,y,z-Math.sin(ry)*.012,2.5,ry+PI/2); }); }   // both faces read the right way
   function flag(B,col,seed){ B.body.geo(cylG,M4(0,4,0,0,0,0,.05,8,.05),C('#d7dbe2'),K.metal); B.body.geo(sphG,M4(0,8.05,0,0,0,0,.09),PAL.gold,K.metal);
     for(let i=0;i<6;i++){ const x0=.06+i*.38, x1=x0+.38, z0=Math.sin(i*.9+seed)*.12, z1=Math.sin(i*.9+.9+seed)*.12; B.body.quad([x0,6.2,z0],[x1,6.2,z1],[x1,7.8,z1],[x0,7.8,z0],col,K.plain); B.body.quad([x1,6.2,z1],[x0,6.2,z0],[x0,7.8,z0],[x1,7.8,z1],col,K.plain); } }
-  function spruce(B,h,seed){ for(let i=0;i<6;i++){ const t=i/6, r=(1-t)*h*.28+.2, y0=.8+t*(h-1.4), hh=h*.26; B.body.geo(coneG,M4(0,y0+hh/2,0,0,i+seed,0,r,hh,r),C('#1f3a28'),K.plain); B.body.geo(coneG,M4(0,y0+hh*.66,0,0,i+seed+.4,0,r*.8,hh*.45,r*.8),PAL.snow,K.snow); }
-    B.body.geo(cylG,M4(0,.5,0,0,0,0,.18,1,.18),PAL.timber[2],K.wood); }
+  function spruce(B,h,seed){ const T=ST.World.TREE[seed%3===0?'fir':'spruce'].near, k=h/9.2; B.body.geoC(T,M4(0,0,0,0,seed*1.7,0,k,k*(.95+hash2(seed,3)*.15),k),K.plain); }
   function snowbank(B,len,seed){ const n=Math.max(1,Math.round(len/2.2)); for(let i=0;i<n;i++){ const x=-len/2+(i+.5)*len/n, r=.75+hash2(i,seed)*.5; B.body.geo(sphG,M4(x,0,0,0,hash2(i,seed+3)*3,0,r*1.4,r*.65,r),PAL.snow,K.snow); } }
   function fenceLine(B,ax,az,bx,bz,col){ const L=Math.hypot(bx-ax,bz-az), n=Math.max(1,Math.round(L/2.2)), ry=Math.atan2(bx-ax,bz-az);
     for(let i=0;i<=n;i++){ const t=i/n; B.body.geo(cylG,M4(ax+(bx-ax)*t,.55,az+(bz-az)*t,0,0,0,.04,1.1,.04),PAL.metal,K.metal); }
@@ -482,6 +487,9 @@
       for(let i=0;i<Q.n;i++){ const pd=(i)*.95+.6; Q.path.at(pd,_o); add({x:_o.x,z:_o.z},queueBeh,{ticket:i,pd}); } }
     return k; };
 
+  /* a building for the resort along the run (World chunks place it): the village's house, merged at its own origin */
+  V.makeHouse=function(o){ buildAtlas(); const B={body:new Batch(),glass:new Batch(),sign:new Batch(true),bulb:new Batch()}; place(0,0,0,0); const h=house(B,o), g=new THREE.Group();
+    SET.forEach(k=>{ const m=B[k].mesh(MAT[k]); if(!m) return; m.castShadow=k==='body'; m.receiveShadow=k!=='bulb'; m.userData.dyn=1; g.add(m); }); g.userData.h=h; return g; };
   V.dispose=function(){ if(!V.group) return; scene.remove(V.group); V.group.traverse(o=>{ if(o.geometry) o.geometry.dispose(); }); V.group=null; V.key=''; };
   /* windows and bulbs follow the time of day of the run (morning, sunset, blue hour, night) */
   V.applyLight=function(){ const n=V.night; MAT.glass.emissiveIntensity=.3+1.25*n; MAT.bulb.emissiveIntensity=1.1+2.2*n; MAT.sign.emissiveIntensity=.12+.55*n; };

diff --git a/snowtrader/js/resort.js b/snowtrader/js/resort.js
@@ -141,10 +141,11 @@
     for(let s=Math.ceil((s0-20)/90)*90+45;s<s0+L;s+=90){ if(s<s0||s>LEN-30) continue; [-1,1].forEach(side=>{ const u=side*(hw(s)+.9), x=W.cx(s)+u, z=-s, y=W.groundY(x,z); cyl(.05,.06,3.2,M.steel,x,y+1.5,z,grp,6);
         const sg=new THREE.Mesh(new THREE.PlaneGeometry(1.1,1.1),new THREE.MeshBasicMaterial({map:signTex(T.diff),side:THREE.DoubleSide})); sg.position.set(x,y+3.1,z); sg.rotation.y=PI/2+side*.15; grp.add(sg); }); }
     // buildings (only the chunk that owns the site builds it)
-    R.sites(T).forEach((t,i)=>{ if(t.s<s0||t.s>=s0+L) return; let o; const k=t.k, house=k!=='station';
-      if(k==='lodge') o=chalet(1.0,'SUMMIT LODGE','SNOW RUSH RESORT'); else if(k==='cafe') o=chalet(.62,'CAFÉ','ESPRESSO · COCOA'); else if(k==='apres') o=chalet(.62,'APRÈS SKI','BAR & GRILL'); else if(k==='mcafe') o=chalet(.6,'MOUNTAIN CAFÉ','WAFFLES'); else o=station();
-      if(house){ const tr=terrace(k==='lodge'?5:3,i); tr.position.set(0,.1,k==='lodge'?5:6); o.add(tr); }
-      placeBuilding(grp,t,o,house); if(house) addSmoke(grp,o); guests(ci,k,o); });
+    R.sites(T).forEach((t,i)=>{ if(t.s<s0||t.s>=s0+L) return; let o; const k=t.k, house=k!=='station', V=ST.Village;
+      if(house&&V&&V.makeHouse){ const spec=HOUSES[k]; o=V.makeHouse(spec); const tr=terrace(k==='lodge'?5:3,i), tk=k==='lodge'?.9:.62; tr.scale.setScalar(tk); tr.position.set(0,-.05,spec.d/2-.6*tk); o.add(tr);   // the deck stays on the cut terrace
+        placeBuilding(grp,t,o,true); o.position.y+=.95; o.updateMatrixWorld(true); addSmoke(grp,o,new THREE.Vector3(spec.w*.22*(spec.seed%2?1:-1),o.userData.h+1.6,-spec.d*.18)); }
+      else { o=house?chalet(.62,k.toUpperCase(),''):station(); placeBuilding(grp,t,o,house); if(house) addSmoke(grp,o); }
+      guests(ci,k,o); });
     // spectators at the start gate: a row of guests either side of the line, cheering
     if(s0===0&&ST.People){ const P=ST.People; for(let k=0;k<12;k++){ const side=k%2?1:-1, ss=3+Math.floor(k/2)*1.9+hash2(k,3)*.8, w=hw(ss), u=side*(w*.62+hash2(k,5)*w*.22), x=W.cx(ss)+u, z=-ss; P.add(ci,{x,z,type:k%3===0?'Idle':'Wave',ry:-side*PI/2+(hash2(k,7)-.5)*.5}); } }
     // cannons
@@ -155,7 +156,12 @@
   };
   const neonNet=new THREE.MeshBasicMaterial({color:0xff3df2,transparent:true,opacity:.55,side:THREE.DoubleSide});
   R.disposeChunk=function(ci){ if(ST.People) ST.People.clear(ci); (chunkGeos[ci]||[]).forEach(g=>g.dispose()); delete chunkGeos[ci]; delete chunkPlumes[ci]; };
-  function addSmoke(grp,o){ const sp=new THREE.Sprite(new THREE.SpriteMaterial({map:plumeTex,transparent:true,depthWrite:false,opacity:.35,color:0xdfe3ea,fog:true})); const p=new THREE.Vector3(-6,14,-1).applyMatrix4(o.matrixWorld.identity().compose(o.position,new THREE.Quaternion().setFromEuler(o.rotation),o.scale)); sp.position.copy(p); sp.scale.set(5,7,1); sp.userData.smoke=1; sp.userData.by=p.y; grp.add(sp); (chunkPlumes.smoke=chunkPlumes.smoke||[]); }
+  /* the lodges and cafés along the run: the village's houses (js/village.js), with a terrace in front */
+  const warmL=[[1,.8,.45],[1,.7,.35]], HOUSES={lodge:{w:22,d:13,floors:3,top:'wood',woodFloors:1,balc:2,sign:'summit',signW:9.5,quoins:true,lights:warmL,seed:31,litP:.7},
+    cafe:{w:13,d:10,floors:2,top:'wood',sign:'rcafe',signW:6.8,seed:32,lights:warmL,shop:{awning:[[.6,.04,.03],[.92,.88,.82]]}},
+    apres:{w:13,d:10,floors:2,top:'wood',sign:'rapres',signW:7.2,seed:33,lights:[[1,.82,.45],[1,.3,.25],[.4,.8,1],[1,.75,.2]],shop:{awning:[[.12,.03,.18],[.03,.03,.04]]}},
+    mcafe:{w:12,d:10,floors:2,top:'wood',ridge:'z',sign:'rmcafe',signW:7,seed:34,lights:warmL}};
+  function addSmoke(grp,o,at){ const sp=new THREE.Sprite(new THREE.SpriteMaterial({map:plumeTex,transparent:true,depthWrite:false,opacity:.35,color:0xdfe3ea,fog:true})); const p=(at||new THREE.Vector3(-6,14,-1)).clone().applyMatrix4(o.matrixWorld.identity().compose(o.position,new THREE.Quaternion().setFromEuler(o.rotation),o.scale)); sp.position.copy(p); sp.scale.set(5,7,1); sp.userData.smoke=1; sp.userData.by=p.y; grp.add(sp); (chunkPlumes.smoke=chunkPlumes.smoke||[]); }
 
   /* ---------- moving chairs ---------- */
   const CH_N=110, CHS=16, CSPEED=5;
